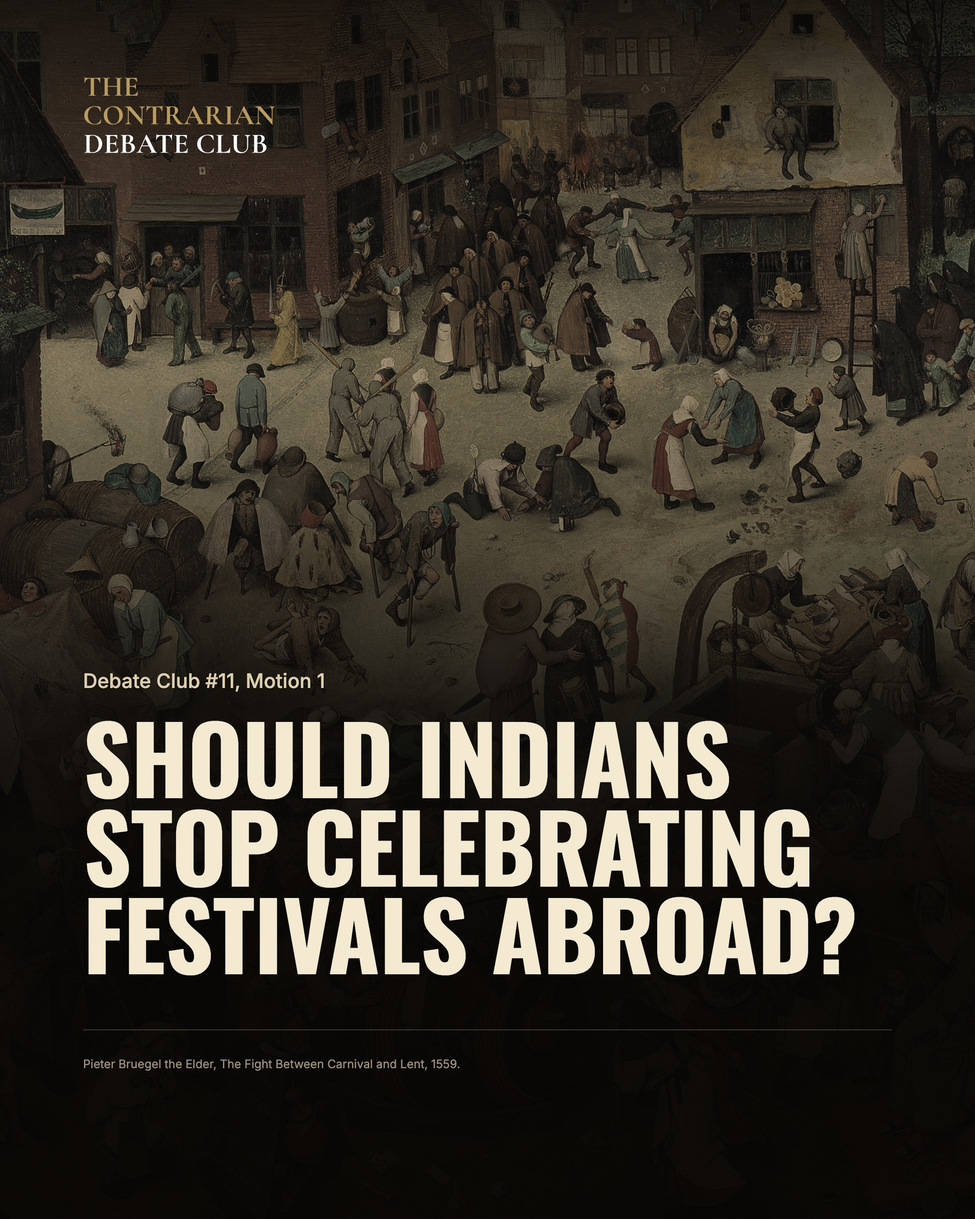
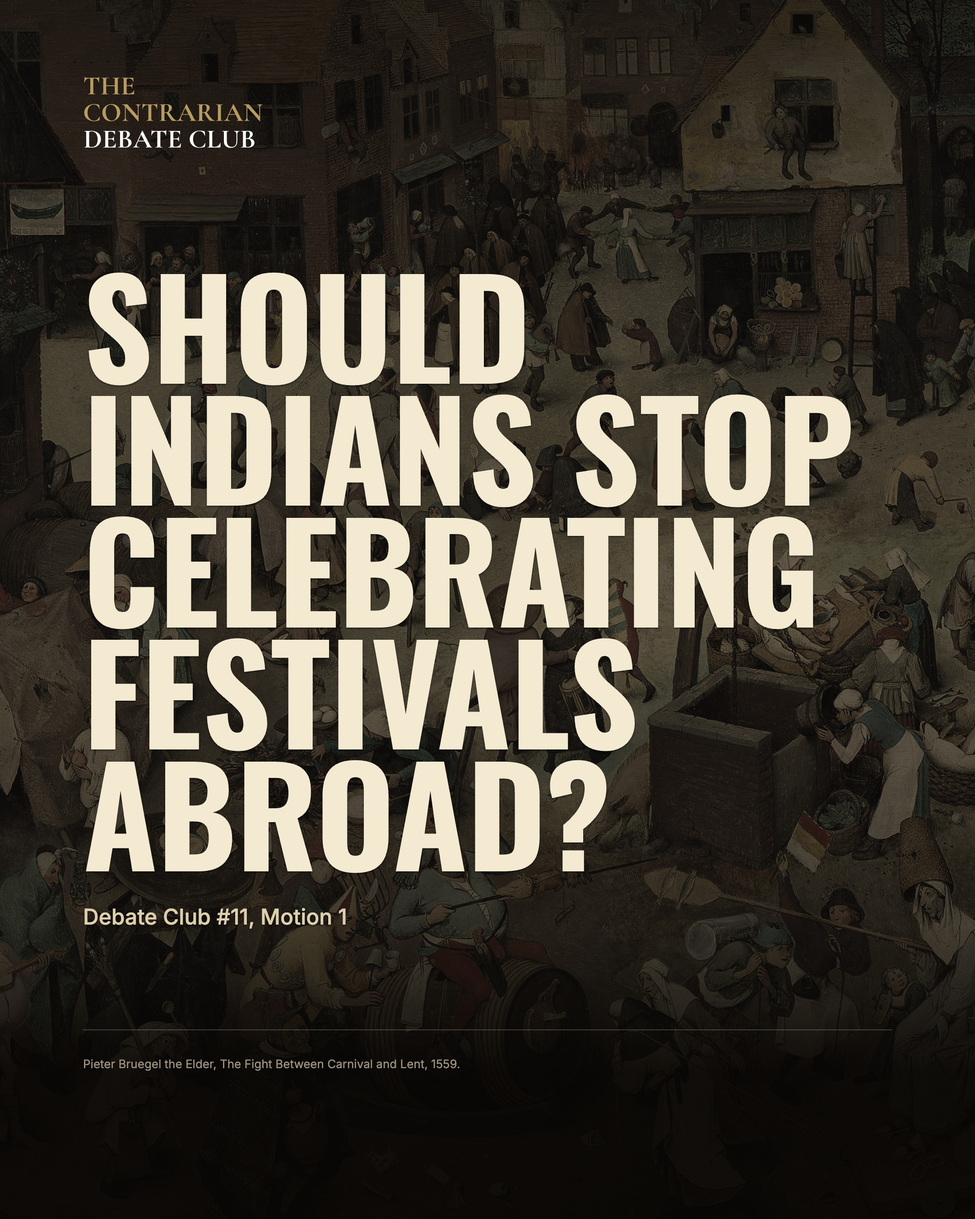
feat(posters): let motion one's question fill its first slide
The hook was set at 104px in the lower half of the slide. It is now five
lines at 150px, centred between the lockup and the rule, with the
carnival showing round the letters, so it reads at thumbnail size in the
feed. Motion two's deck opens the same way.

diff --git a/posters/works/2026-09-27-debate-11-image-carousel/slides.tsx b/posters/works/2026-09-27-debate-11-image-carousel/slides.tsx
@@ -51,6 +51,10 @@ import "./slides.css";
 // post is the point. Slide 6 opens on its question and tucks the headline to
 // one side, so the empty lit street is the picture.
 //
+// THE HOOK IS THE WHOLE FIRST SLIDE. The question is set as large as the page
+// allows, so it reads at thumbnail size in the feed; the painting shows round
+// the letters. The motion two deck opens the same way.
+//
 // THREE TYPEFACES. Oswald shouts once, the question on slide 1. Playfair does
 // all the talking. Inter is the posts themselves and the small print.
 
@@ -465,7 +469,9 @@ function Clippings({
 
 /* --- The slides ----------------------------------------------------------- */
 
-/** 1. The hook, on the poster's carnival. */
+/** 1. The hook, on the poster's carnival. The question is the slide: set as
+ *  large as the page allows, centred in the space between the lockup and the
+ *  rule, with the painting showing round the letters. */
 export function Hook({
   plate,
   crop,
@@ -480,22 +486,31 @@ export function Hook({
   size: number;
 }) {
   return (
-    <Ground plate={plate} crop={crop} scrim="ic-scrim-cover">
+    <Ground plate={plate} crop={crop} scrim="ic-scrim-hook">
       <div style={{ position: "absolute", left: MARGIN, top: 84 }}>
-        <Lockup width={214} artwork="left" />
+        <Lockup width={200} artwork="left" />
       </div>
       <div
         className="ic-on-art"
-        style={{ position: "absolute", left: MARGIN, width: W - MARGIN * 2, bottom: H - TEXT_BASE }}
+        style={{
+          position: "absolute",
+          left: MARGIN,
+          right: MARGIN - 20,
+          top: 220,
+          bottom: H - RULE + 40,
+          display: "flex",
+          flexDirection: "column",
+          justifyContent: "center",
+        }}
       >
-        <p style={{ ...SMALL, fontSize: 22, color: "var(--cc-parchment)", marginBottom: 22 }}>
-          {label}
-        </p>
         {question.map((l) => (
-          <p key={l} style={{ ...CONDENSED, fontSize: size }}>
+          <p key={l} style={{ ...CONDENSED, fontSize: size, lineHeight: 0.9 }}>
             {l}
           </p>
         ))}
+        <p style={{ ...SMALL, fontSize: 24, color: "var(--cc-parchment)", marginTop: 36 }}>
+          {label}
+        </p>
       </div>
       <hr className="ic-rule" style={{ top: RULE }} />
       <UnderRule credit={plate.credit} />

diff --git a/posters/works/2026-09-27-debate-11-image-carousel/slides.css b/posters/works/2026-09-27-debate-11-image-carousel/slides.css
@@ -72,18 +72,18 @@
   );
 }
 
-/* The hook: the lockup at the top, the question at the foot. */
-.ic-scrim-cover {
+/* The hook: the question covers most of the page, so the painting is taken
+   down evenly behind it and a little further at the foot for the credit. */
+.ic-scrim-hook {
   position: absolute;
   inset: 0;
   background: linear-gradient(
     180deg,
-    rgba(11, 9, 7, 0.78) 0%,
-    rgba(11, 9, 7, 0.24) 15%,
-    rgba(11, 9, 7, 0.02) 30%,
-    rgba(11, 9, 7, 0.34) 44%,
-    rgba(11, 9, 7, 0.86) 58%,
-    rgba(8, 6, 4, 0.96) 74%
+    rgba(11, 9, 7, 0.7) 0%,
+    rgba(11, 9, 7, 0.5) 18%,
+    rgba(11, 9, 7, 0.46) 50%,
+    rgba(11, 9, 7, 0.62) 76%,
+    rgba(8, 6, 4, 0.94) 88%
   );
 }
 

diff --git a/posters/works/2026-09-27-debate-11-image-carousel/spec.tsx b/posters/works/2026-09-27-debate-11-image-carousel/spec.tsx
@@ -153,8 +153,8 @@ const work: WorkSpec = {
           plate={carnival}
           crop={{ x: 0.4, y: 0.5, scale: 1.9 }}
           label="Debate Club #11, Motion 1"
-          question={["Should Indians", "stop celebrating", "festivals abroad?"]}
-          size={104}
+          question={["Should", "Indians stop", "celebrating", "festivals", "abroad?"]}
+          size={150}
         />
       ),
     },
